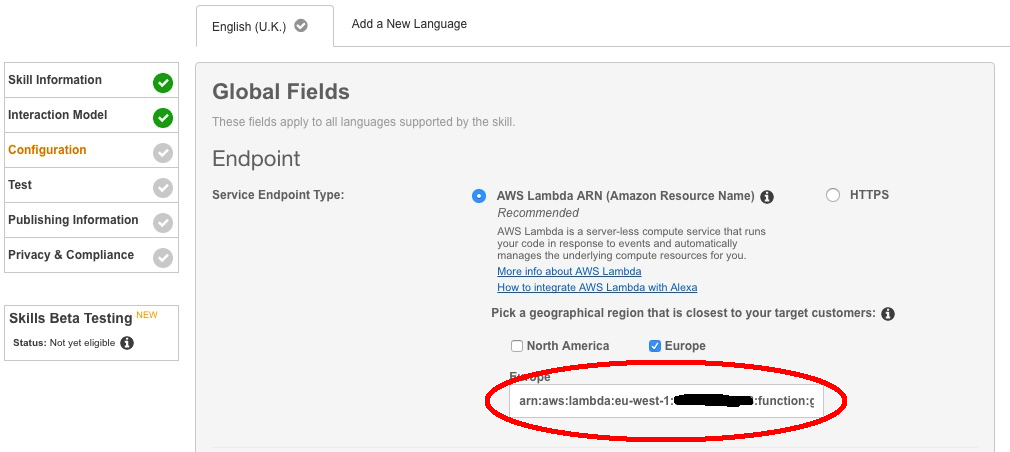
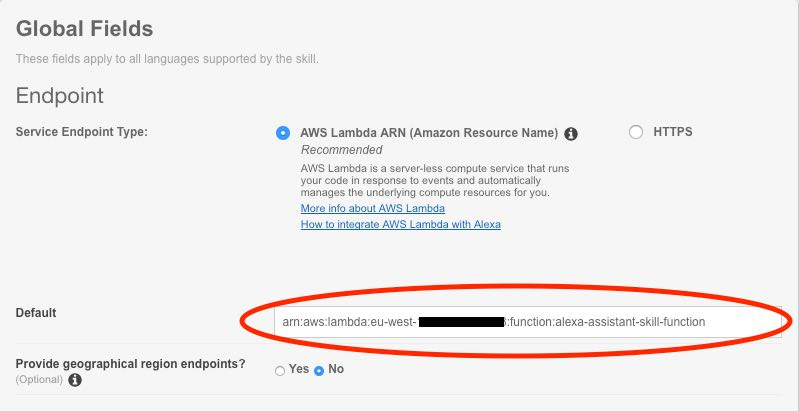
Updated installation instructions

diff --git a/fresh_install.md b/fresh_install.md
@@ -14,6 +14,8 @@ If you already have Version 1 of the skill installed then please use the instruc
 
 1. If you need to create a Developer account then fill in your details and ensure you answer "NO" for "Do you plan to monetize apps by charging for apps or selling in-app items" and "Do you plan to monetize apps by displaying ads from the Amazon Mobile Ad Network or Mobile Associates?"
 
+## Skill Setup Part 1
+
 ![alt text](screenshots/payment.jpeg)
 
 1. Once you are logged into your account click on the yellow "Get Started" button under Alexa Skills Kit.
@@ -211,7 +213,19 @@ To enable access to the Google Assistant API, do the following:
     ```
 and save it somewhere safe on your hardrive as we will need it later. NEVER SHARE THIS FILE WITH ANYONE AS IT CONTAINS YOUR AUTHENTICATION DETAILS
 
-18. You can now close this tab/window
+17. A new page will appear. Click on the OAuth 2.0 client ID called "google_assistant"
+
+![alt text](screenshots/credentials_5.jpeg)
+
+18. Copy the text in the Client ID box (excluding the Client ID text) and paste it into a new line in your Notepad/TextEdit document 
+
+![alt text](screenshots/client_id.jpeg)
+
+19. Copy the text in the Client Secret box (excluding the Client Secret text) and paste it into a new line in your Notepad/TextEdit document 
+
+![alt text](screenshots/client_secret.jpeg)
+
+20. You can now close this tab/window
 
 ## AWS Lambda Setup
 
@@ -230,7 +244,7 @@ Go to http://aws.amazon.com/. You will need to set-up an AWS account (the basic 
 ![alt text](screenshots/new_stack.jpg)
 
 5. A new page will open titled "Select Template"
-6. Under "Choose a template" select "Specify an Amazon S3 template URL and past the following into the box
+6. Under "Choose a template" select "Specify an Amazon S3 template URL" and paste the following into the box
 
     ```
     https://s3-eu-west-1.amazonaws.com/googleassistantskillcloudformationbucket/cloudformation.json
@@ -243,12 +257,6 @@ Go to http://aws.amazon.com/. You will need to set-up an AWS account (the basic 
 ```
 AlexaAssistant
 ```
-9. The "FunctionName" under "Parameters" should also be set to
-```
-AlexaAssistant
-```
-
-![alt text](screenshots/specify_details.jpg)
 
 10. Click Next
 11. On the "Options" page do not change anything and just click on Next
@@ -264,6 +272,149 @@ AlexaAssistant
 15. You can check progress by clicking on the refresh button towards the top right of the page
 
 ![alt text](screenshots/start_creation.jpg)
+
+16. You will know that the creation process is complete as it will say "CREATE_COMPLETE" in green under the "Status" heading
+
+![alt text](screenshots/create_complete.jpg)
+
+17. Click on the "Outputs" tab at the bottom of the page
+
+18. If the creation process is very quick (less than 10 seconds) and the Ouput Tab looks like the one below then this means that you have selected the wrong AWS region. You will need to delete the CloudFormation Stack, select the right AWS region and then create the stack again. Instructions for deleting the stack are here:-
+
+[How to delete the stack](delete_stack.md)
+
+![alt text](screenshots/stack_error.jpg)
+
+19. If you see the output below with the Key "FunctionARN", then select the text starting "arn:aws" and copy it
+
+## Skill Setup Part 2
+
+1. Return to the Skill setup page that we left earlier
+2. Paste the FunctionARN text we copied from the previous step and paste into the "Default" box
+
+![alt text](screenshots/endpoint.jpg)
+
+2. In the Authorization URL paste the following: -
+
+    ```
+    https://accounts.google.com/o/oauth2/auth?access_type=offline
+    ```
+2. Delete the existing text from the "Client ID" field (it will probably say "alexa-skill")  
+3. Copy the Client ID from your Notepad/TextEdit document (HINT - it's the longer of the two) and paste it into the Client ID box
+
+![alt text](screenshots/linking_1.jpeg)
+
+4. Under Domain List : Press "Add domain" and enter:-
+
+    ```
+    google.com
+    ```
+
+5. Press "Add domain" again for a second box into which enter:-
+
+    ```
+    googleapis.com
+    ```
+
+6. Under Scope: Press "Add Scope" and enter:-
+
+    ```
+    https://www.googleapis.com/auth/assistant-sdk-prototype
+    ```
+    
+7. Press "add scope" again for a second box into which enter:-
+
+    ```
+    https://www.googleapis.com/auth/script.external_request
+    ```
+    
+![alt text](screenshots/linking_2.jpeg)
+
+8. Under Authorisation Grant Type make sure "Auth Code Grant" is selected.
+9. The Access Token URI should be set to: -
+    
+    ```
+    https://accounts.google.com/o/oauth2/token
+    ```
+
+10. Copy the Client Secret from your Notepad/TextEdit document (HINT - it's the shorter of the two) and paste it into the Client Secret box
+11. Leave Client Authentication Scheme as "HTTP Basic"
+12. Leave eveything under Permission unselected.
+13. Paste into the Privacy Policy URL box: -
+
+    ```
+    https://www.google.com/policies/privacy/
+    ```
+![alt text](screenshots/linking_3.jpeg)    
+
+14. Click "Save" and then "Next".
+
+15. There is no need to go any further through the process i.e. submitting for certification. There is no point in testing the skill on the next page as the simulator cannot authenticate against the Google API. 
+
+**You can now close this window/tab - makes sure you save your Notepad/TextEdit file somewhere safe in case you need these details again**
+
+
+## Upload client_secret.json file to the S3 Bucket
+
+1. Open a new browser window or tab
+2. Goto to https://s3.console.aws.amazon.com/
+3. You will see a list of S3 buckets (you might only have one if you havne't created any before).
+4. Click on the one with a name starting with (where XXXXXX will be some random characters)
+    ```
+    arn:aws:s3:::alexaassistant-s3bucket-XXXXXXX
+    ```
+    
+![alt text](screenshots/s3_bucket.jpg)
+    
+5. Click on the blue "Upload" button
+
+![alt text](screenshots/s3_upload.jpg)
+
+6. On the grey window that appears click on "Add files"
+
+![alt text](screenshots/add_files.jpg)
+
+7. Select the client_secret.json file that you downloaded and renamed earlier (You did remember to rename it didn't you?)
+
+8. On the next page *DO NOT CLICK NEXT* - Just click on the "Upload" button the the bottom left hand side
+
+![alt text](screenshots/s3_upload_final.jpg)
+
+9. The grey window will now clode and you should see a screen like below. You can now close this window/tab
+
+![alt text](screenshots/s3_uploaded.jpg)
+
+
+
+
+
+
+
+## Linking the skill to your Google Account
+
+1. In order to use the Google Assistant, you must share certain activity data with Google. The Google Assistant needs this data to function properly; this is not specific to the SDK.
+
+2. Open the Activity Controls page https://myaccount.google.com/activitycontrols for the Google account that you want to use with the Assistant. Ensure the following toggle switches are enabled (blue):
+
+    1. Web & App Activity - Make sure the box marked "Include Chrome browsing history and activity from websites and apps that use Google Services" is also checked 
+    2. Location History
+    3. Device Information
+    4. Voice & Audio Activity
+    
+3. Launch the Google skill by asking "Alexa, open google" (or whatever invocation name you gave e.g. "my assistant"
+4. The skill will tell you if you have forgotten to set any environment variables or if there any other set-up issues
+4. You will then be prompted to link your account through the Alexa app.
+5. Select the Google account you want to use (it does not have to be the one you authorised the API with) and then make sure you click "Allow" on the Google authorisation page. 
+
+![alt text](screenshots/authorise.jpeg)
+
+6. If you have problems linking through the IOS or Android app then please try the web based version of the Alexa app here:- http://alexa.amazon.com
+
+
+
+
+
+
 
 
 
